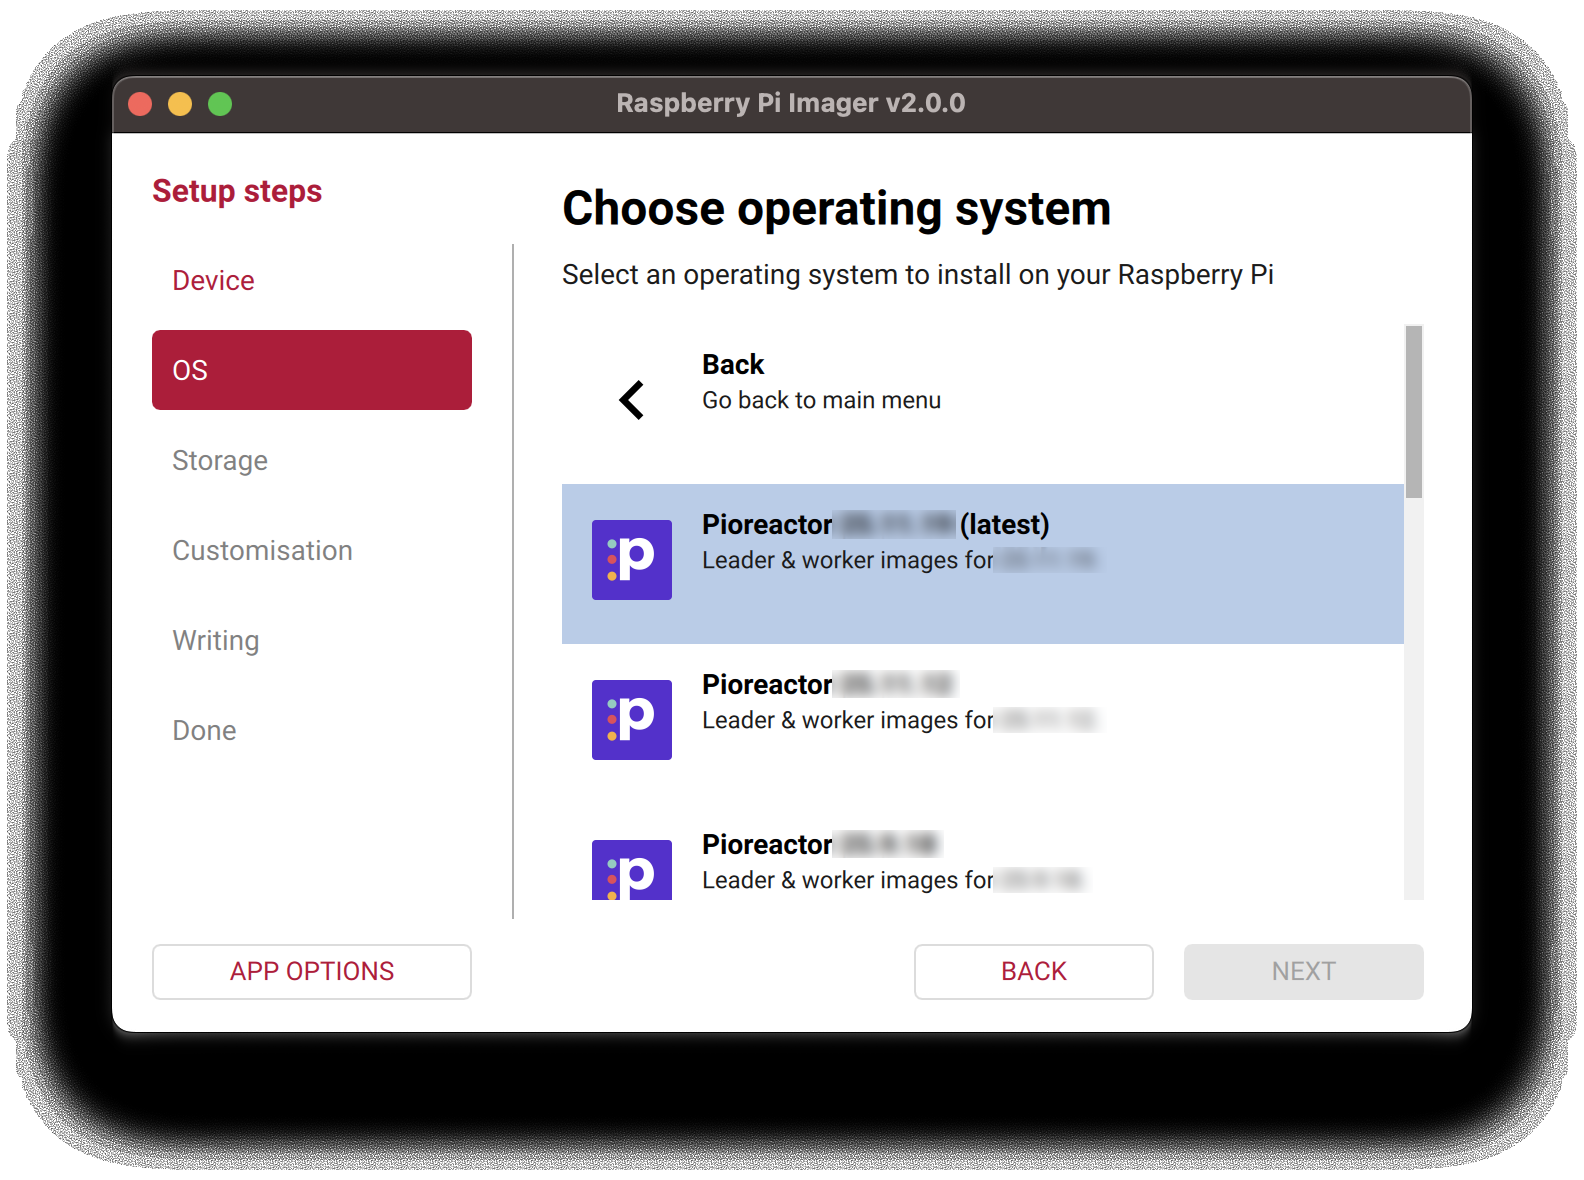
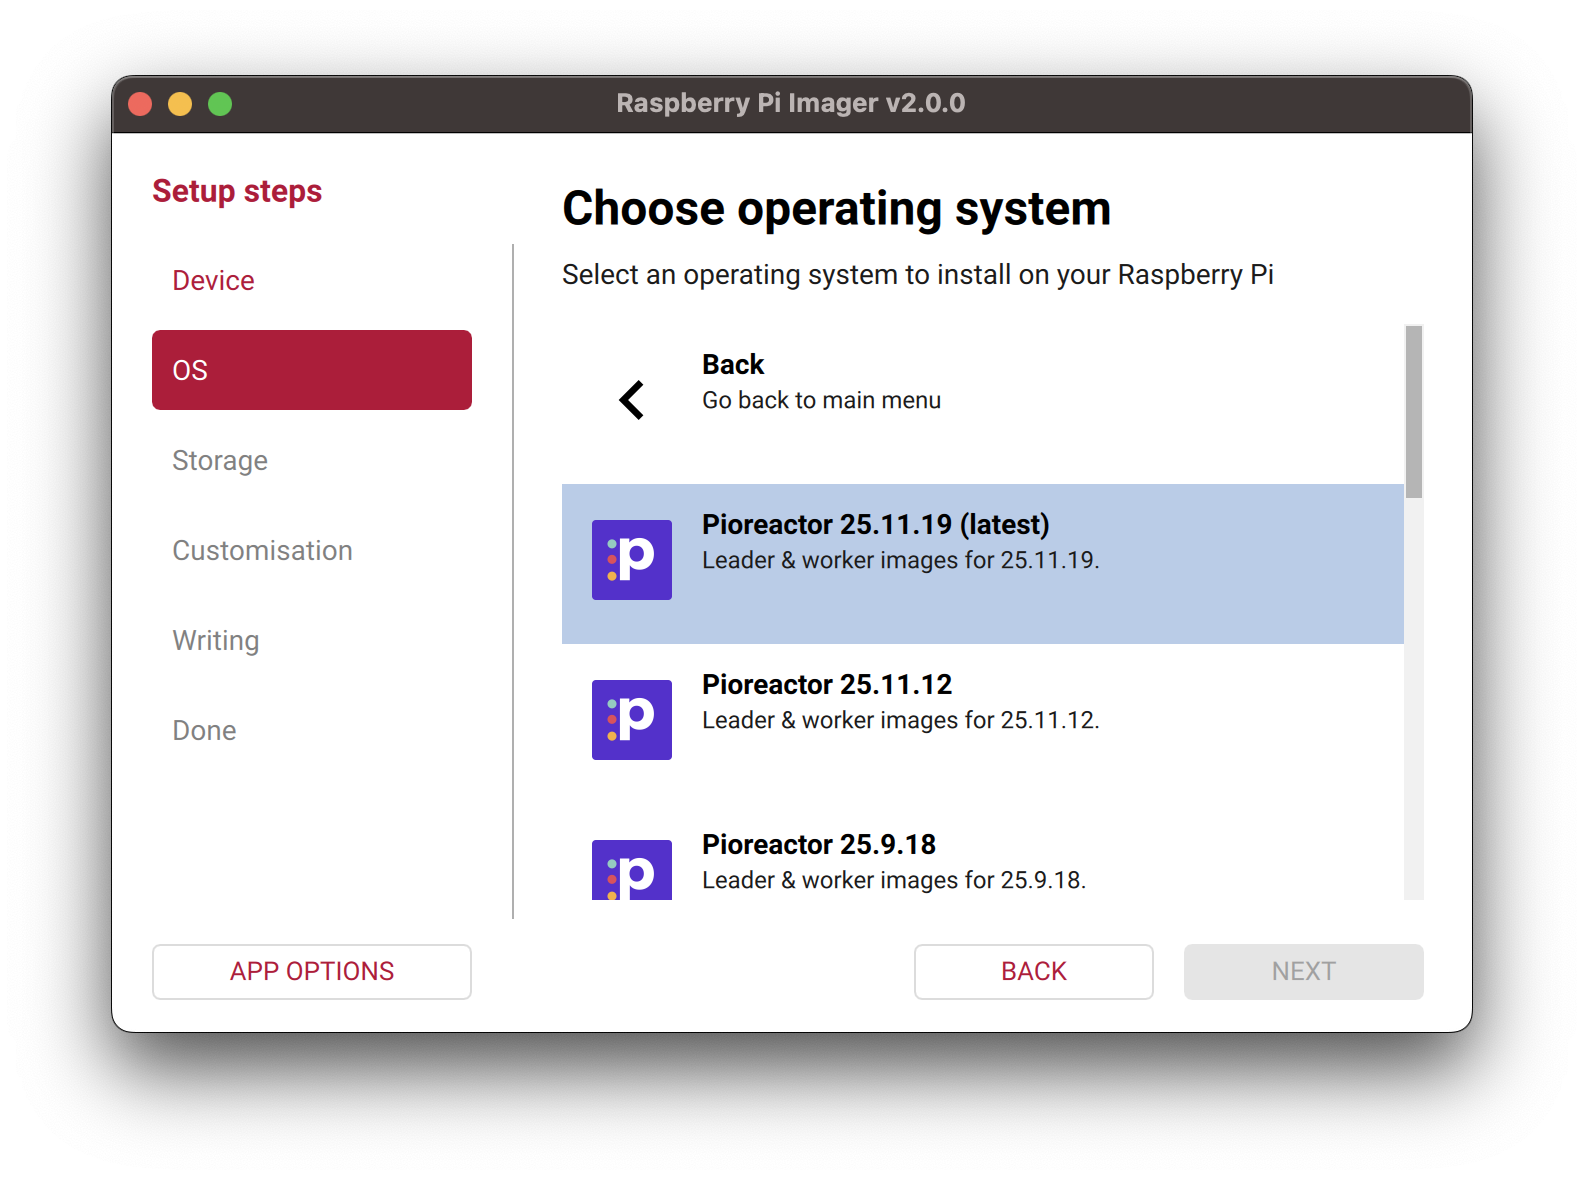
revert image change

diff --git a/developer-guide/10-Hardware/05-pinout.md b/developer-guide/10-Hardware/05-pinout.md
@@ -1,8 +1,20 @@
 ---
-title: Pinout diagram
+title: GPIO pins used
 slug: /pinout
 hide_table_of_contents: true
 ---
 
+## v1.x HAT
 
-![](/img/developer-guide/10-hardware/05-pinout/pinout.png)
+- GPIO2 — I2C SDA
+- GPIO3 — I2C SCL
+- GPIO4 — PCB button on HAT 1.1 and 1.2
+- GPIO12 — PWM channel 4
+- GPIO13 — PWM channel 2
+- GPIO16 — PWM channel 3
+- GPIO17 — PWM channel 1
+- GPIO18 — PWM channel 5, used for heating
+- GPIO21 — hall sensor on HAT 1.1 and 1.2
+- GPIO23 — PCB LED
+- GPIO24 — PCB button on HAT 1.0, SWD on HAT 1.1 and 1.2
+- GPIO25 — hall sensor on HAT 1.0, SWD on HAT 1.1 and 1.2

diff --git a/developer-guide/09-Storage and the filesystem/01-data-stores/01-data-stores-intro.md b/developer-guide/09-Storage and the filesystem/01-data-stores/01-data-stores-intro.md
@@ -24,7 +24,7 @@ SQLite3 is also used for simpler database (caches) on each Pioreactor (worker an
 What are temporary and persistent? Something like GPIO locks or LED state are physically reset between cycles of the Raspberry Pi. So when the Pi power-cycles, the state is wiped, and by have the database in `/tmp`, the databases are wiped as well.
 :::
 
-You can use `pio cache view <name>` to view the contents of `<name>`, and `pio cache clear <name> <key>` to clear contents.
+You can use `pio cache view <name>` to view the contents of `<name>`, and `pio cache purge <name> <key>` to clear contents.
 
 
 ## MQTT

diff --git a/user-guide/30-Advanced/01-cli.md b/user-guide/30-Advanced/01-cli.md
@@ -20,7 +20,7 @@ Interacting with the Pioreactor on the command line are through the `pio` tool. 
 *   `pio blink` will blink the Pioreactor's onboard LED.
 *   `pio log -m <message>` will log a message
 *   `pio cache view <cache>` will print out the contents of the specified cache.
-*   `pio cache clear <cache> <key>` will remove `<key>` from cache `<cache>`.
+*   `pio cache purge <cache> <key>` will remove `<key>` from cache `<cache>`.
 *   `pio plugins --help` for managing plugins
 *   `pio calibrations --help` for managing calibrations.
 